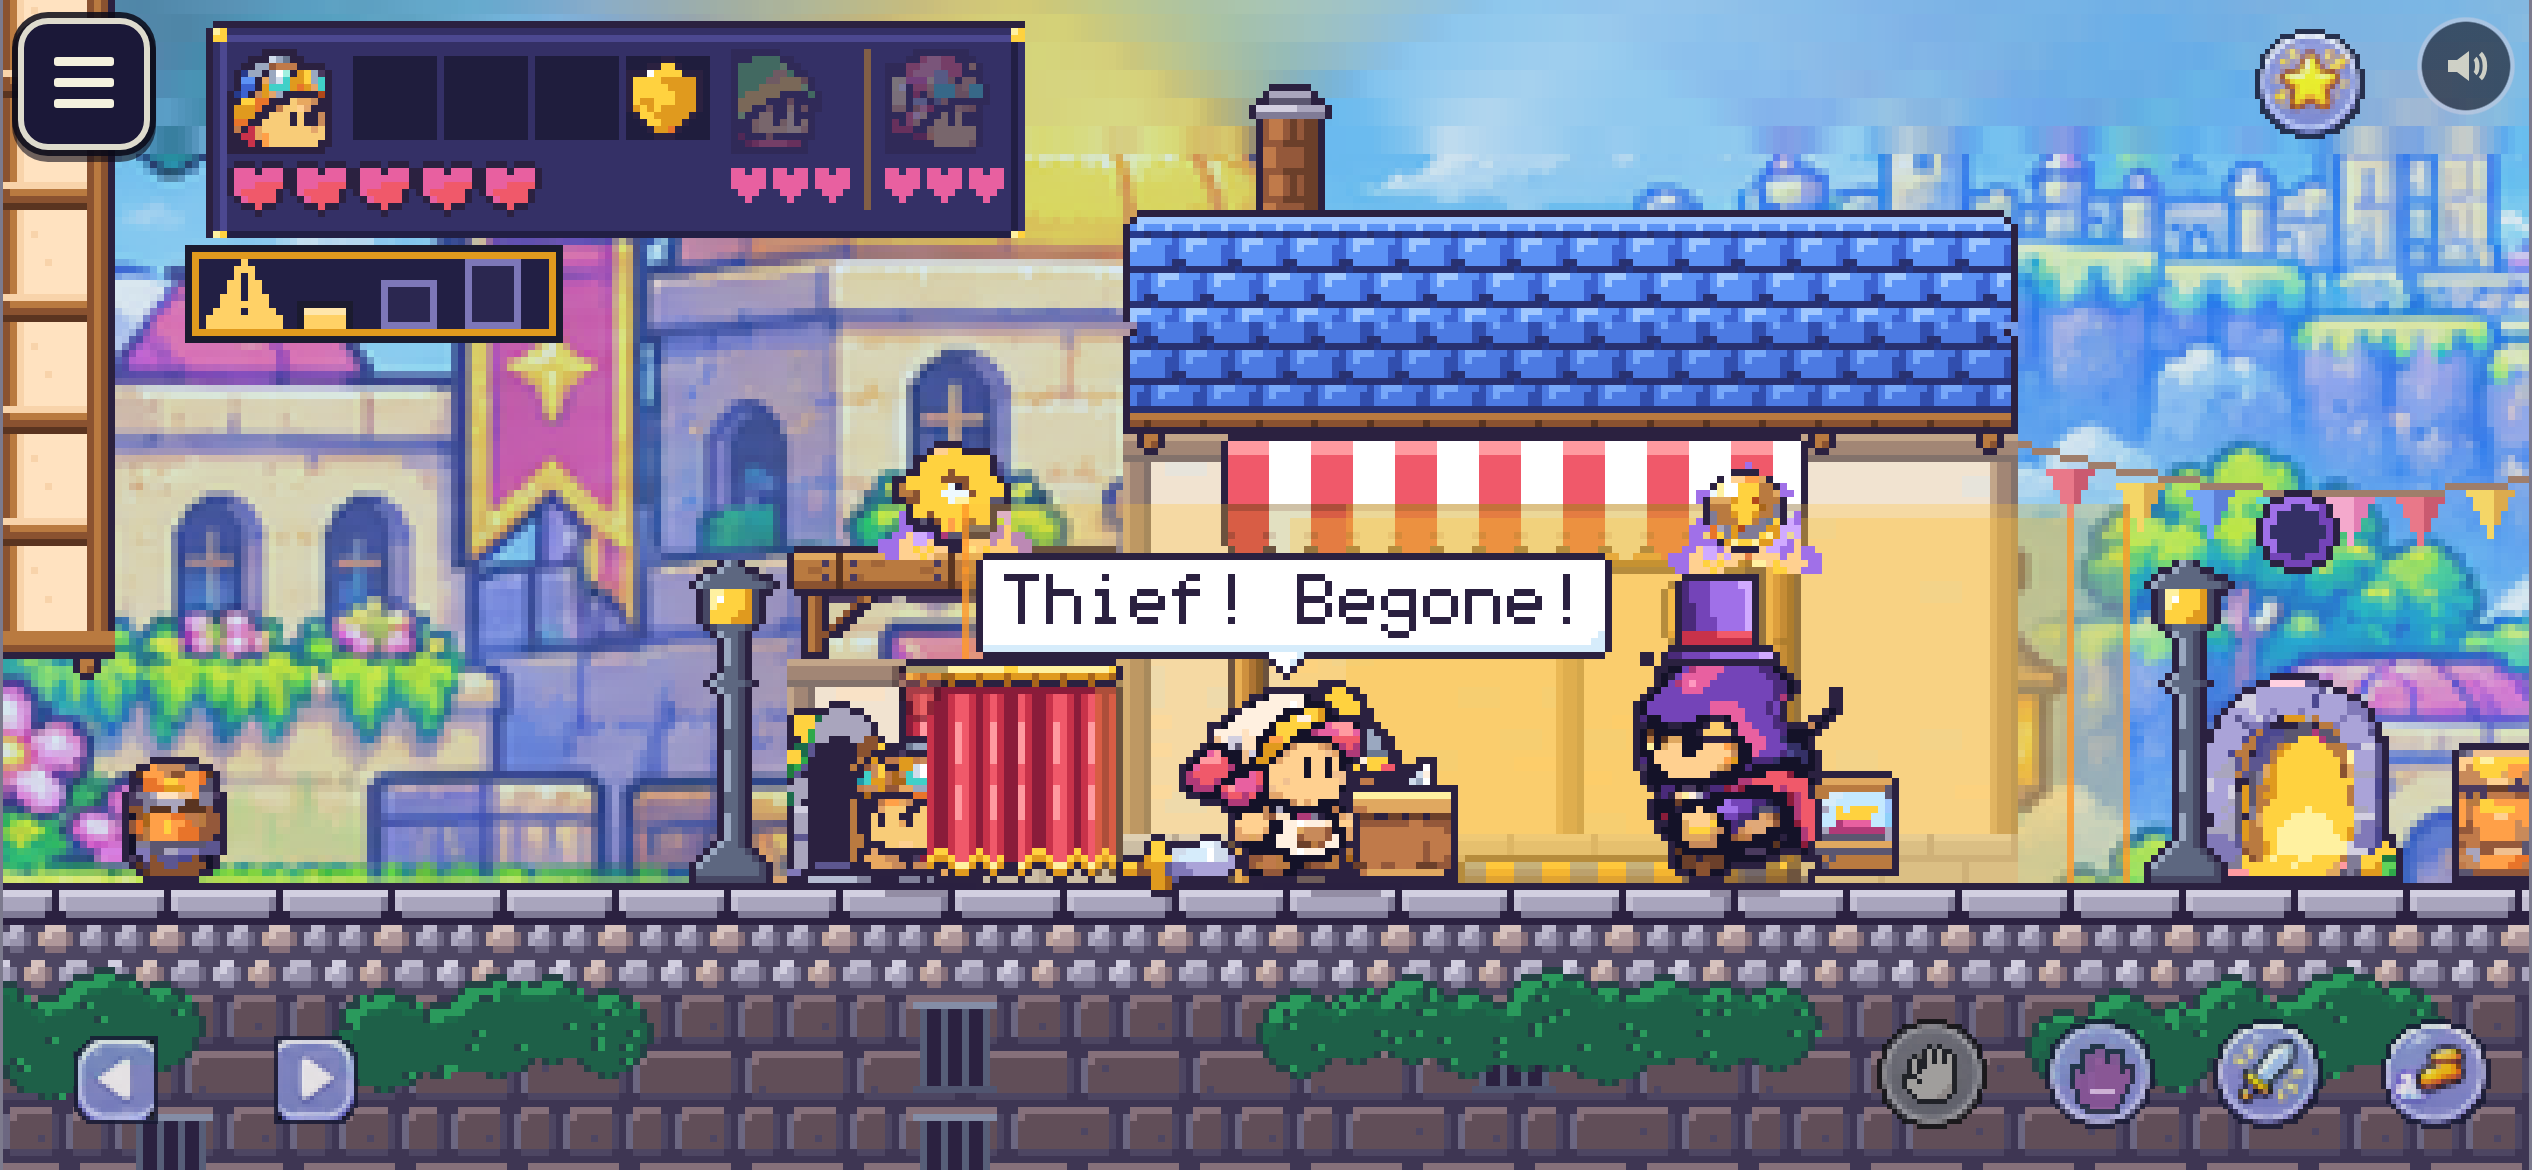
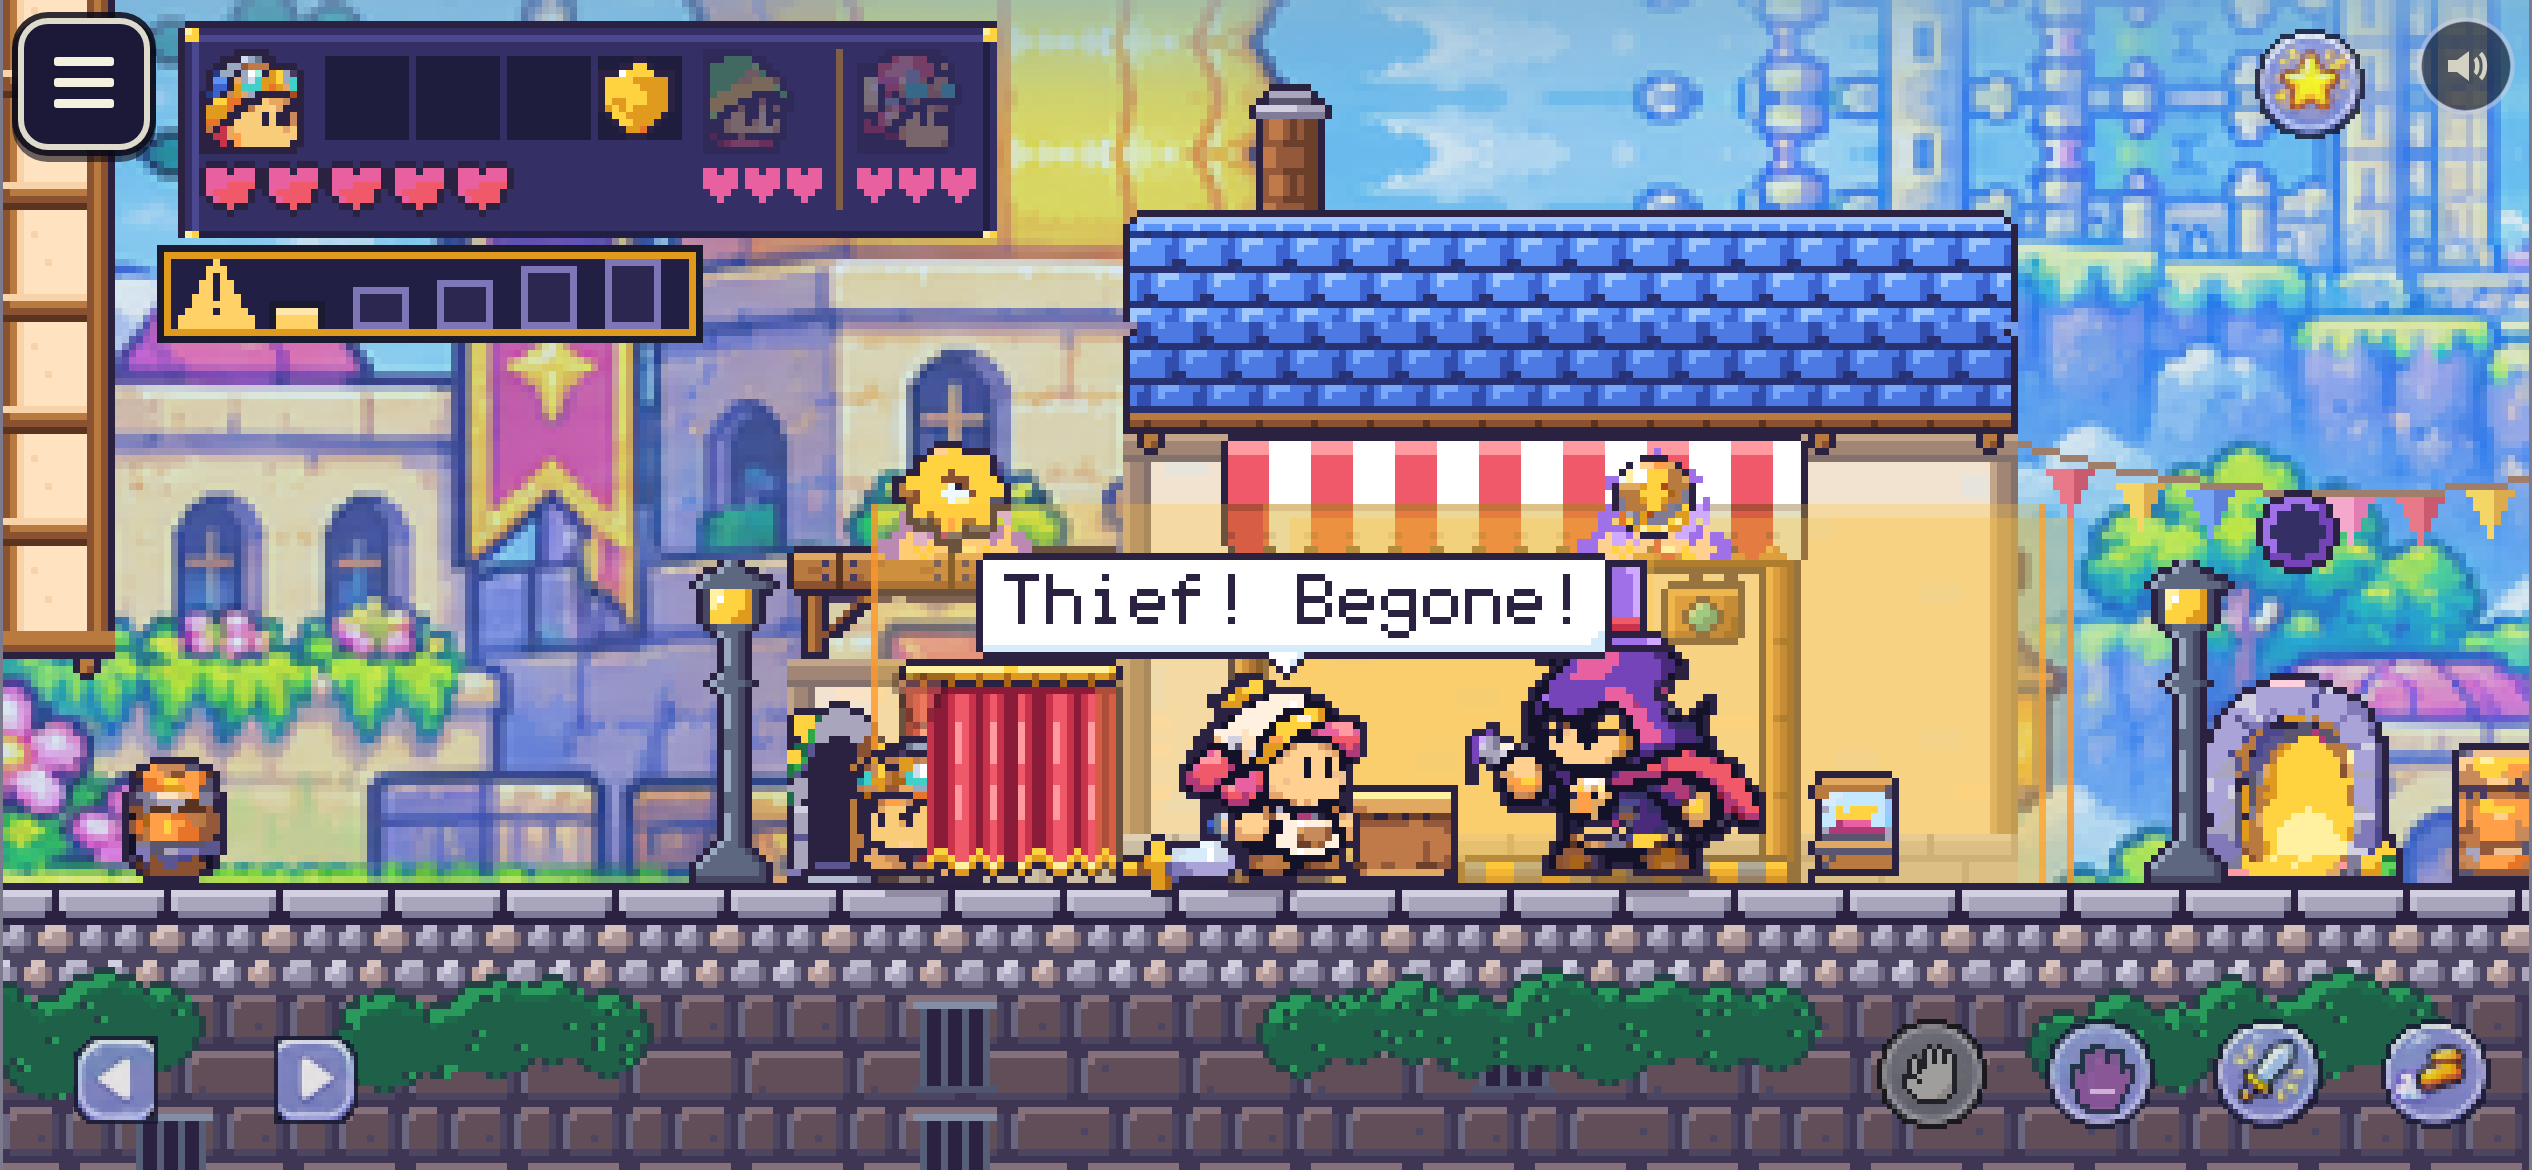
The e2e's reds, fourth builder, push 2: clash-street walks off once the villain is drawn clipped
Why: clash-street went red in 2 of the orchestrator's last 3 full runs (the guard
knocked with the hero 61 px off, wants 64), and a blind look found no fight in its
shots. Measured with the fact alone: the brawl's knocks come at fixed times after the
guard's blow clips the villain, and the hero walked off at a time set by 300 ms
polling, so those knocks landed 61-77 px from him; under load 3 of 4 red. Walking off
sooner leaves no brawl at all (0 knocks, 4 of 4): the hero must be standing in the
villain when the guard swings. The check's, not the game's.

What (scripts/e2e/clash.ts only): stand in the villain until the page draws him
knocked (the guard's clip, up to 3 s), then walk off; knocks count only while drawn
inside the view (what a player sees); each shot waits until guard and villain are
both drawn in frame and the fact says whether they were. Claim and limits unchanged.
Shots re-taken at 844x390 and 390x664, both in frame (my look, not blind).

Ran: the fact alone 4 of 4 green, under load (3 CPU hogs) 4 of 4 green (the guard's
knock 107-111 px off, the villain's 109-114); control (hostility answers emptied,
scratch build) red, 0 guard knocks; npm run build, npm run check (exit 0); full
npm run e2e 184 of 184. Not verified: 8 full runs. Weakest: knocks in all sometimes
exactly the floor of 4. Measure row moved: none. Undo: revert the commit.

Claude-Session: https://claude.ai/code/session_017WiGzJPGBR6ALNnE8BaE3G

diff --git a/scripts/e2e/clash.ts b/scripts/e2e/clash.ts
@@ -3,8 +3,8 @@
 // check:live until it has been green ten runs). A phone-sized page, by touch
 // alone, walks into the castle street, takes goods from the shop until the
 // shopkeeper's call brings the street guard, stands in the villain (who robs
-// at columns 17-21) until the guard is on it, then walks west and stands
-// clear: the page draws the guard and the villain each knocked (a jump of
+// at columns 17-21) until the guard is on it and the page draws the villain
+// knocked by his blow, then walks west and stands clear: the page draws the guard and the villain each knocked (a jump of
 // their drawn x) at least twice within a few seconds of each other while its
 // own character stands at least four tiles from them, having walked away
 // (docs/mechanisms/npc-response.md, "A person answers a blow ahead of a hero").
@@ -41,6 +41,8 @@ const CLEAR_X = 128;
 const AWAY = 64;
 /** A knock: a body's drawn x moves this much within 300 ms (people walk 12 px in 300 ms; a guard's blow carries a person ~100 px). */
 const JUMP = 24;
+/** A knock counts only while the body is drawn inside the view, this far in from its left edge (the drawn x is the left edge). */
+const IN_VIEW_PAD = 4;
 
 /** Holds the stick one way until the page draws its character in `goal` (copied from scripts/e2e/outpost.ts, Step 12's). */
 async function walkInto(ph: Phone, dir: number, goal: string, ms = 20000): Promise<boolean> {
@@ -71,6 +73,27 @@ const leftOver = (ph: Phone, thing: string): Promise<number> =>
 /** Where the page draws a body (its left edge), or null. */
 const xOf = (ph: Phone, id: string): Promise<number | null> =>
   ph.page.evaluate((i: string) => (window as any).irreverents.drawn.entities.find((e: any) => e.id === i)?.x ?? null, id);
+
+/** Waits until the page draws both the guard and the villain inside its view; true if it did within `ms`. */
+async function bothInView(ph: Phone, ms: number): Promise<boolean> {
+  try {
+    await ph.page.waitForFunction(
+      ([ids, pad]: [string[], number]) => {
+        const irr = (window as any).irreverents;
+        const d = irr.drawn;
+        return ids.every((i) => {
+          const x = d.entities.find((e: any) => e.id === i)?.x;
+          return typeof x === 'number' && x >= d.camera.x + pad && x <= d.camera.x + irr.view.w - pad;
+        });
+      },
+      [[GUARD, VILLAIN], IN_VIEW_PAD] as [string[], number],
+      { polling: 'raf', timeout: ms },
+    );
+    return true;
+  } catch {
+    return false;
+  }
+}
 
 export async function clashFacts(kit: Kit & { shots: string }): Promise<void> {
   const { fact } = kit;
@@ -111,6 +134,33 @@ export async function clashFacts(kit: Kit & { shots: string }): Promise<void> {
       met = gx !== null && Math.abs(gx - mx) <= 24;
       if (!met) await sleep(300);
     }
+    // Then keep standing in him until the page draws the villain knocked (the guard's blow at the hero clipping
+    // him, which starts the brawl), up to 3 s. INTENT (e2e-intermittent-reds brief, order 3): walking off sooner
+    // than that blow leaves no brawl at all (measured: 0 knocks drawn in 4 of 4 runs that walked off the frame the
+    // guard was drawn on the hero); walking off at a fixed time before it left the brawl's knocks at 61-77 px from
+    // the hero, across the fact's four tiles.
+    let clipped = false;
+    if (met) {
+      try {
+        await ph.page.waitForFunction(
+          ([id, jump]: [string, number]) => {
+            const w = window as any;
+            const d = w.irreverents.drawn;
+            const x = d.entities.find((e: any) => e.id === id)?.x;
+            const now = performance.now();
+            const h: { t: number; x: number }[] = (w.__clashVillain ??= []);
+            if (typeof x === 'number') h.push({ t: now, x });
+            while (h.length && h[0]!.t < now - 300) h.shift();
+            return h.length > 1 && Math.abs(h[h.length - 1]!.x - h[0]!.x) >= jump;
+          },
+          [VILLAIN, JUMP] as [string, number],
+          { polling: 'raf', timeout: 3000 },
+        );
+        clipped = true;
+      } catch {
+        // the fact says so
+      }
+    }
     const metAt = Date.now() - t0;
 
     // Now record, every frame for 20 s, where the page draws the hero, the guard and the villain, while the
@@ -119,12 +169,13 @@ export async function clashFacts(kit: Kit & { shots: string }): Promise<void> {
       ([ids, dur]: [string[], number]) =>
         new Promise<any>((resolve) => {
           const start = performance.now();
-          const rows: { t: number; me: number; room: string; x: Record<string, number | null> }[] = [];
+          const rows: { t: number; me: number; room: string; x: Record<string, number | null>; cx: number; vw: number }[] = [];
           const tick = (): void => {
-            const d = (window as any).irreverents.drawn;
+            const irr = (window as any).irreverents;
+            const d = irr.drawn;
             const x: Record<string, number | null> = {};
             for (const id of ids) x[id] = d.entities.find((e: any) => e.id === id)?.x ?? null;
-            rows.push({ t: performance.now() - start, me: d.me.x, room: d.room, x });
+            rows.push({ t: performance.now() - start, me: d.me.x, room: d.room, x, cx: d.camera?.x ?? 0, vw: irr.view?.w ?? 0 });
             if (performance.now() - start > dur) return resolve(rows);
             requestAnimationFrame(tick);
           };
@@ -132,6 +183,7 @@ export async function clashFacts(kit: Kit & { shots: string }): Promise<void> {
         }),
       [[GUARD, VILLAIN], 20000],
     );
+    const shotsInFrame: string[] = [];
     if (met) {
       const p = await pointOn(ph, '[data-stick]', 0.25);
       if (p) {
@@ -144,17 +196,19 @@ export async function clashFacts(kit: Kit & { shots: string }): Promise<void> {
         await ph.cdp.send('Input.dispatchTouchEvent', { type: 'touchEnd', touchPoints: [] });
       }
       // The shots, while the brawl goes on and the hero has walked off (the e2e phone is 750x340).
+      // Each shot waits (up to 4 s) until the page draws both the guard and the villain inside its view, and the
+      // fact says whether each shot got them (shotsInFrame).
       fs.mkdirSync(kit.shots, { recursive: true });
       await sleep(500);
-      await ph.page.setViewportSize({ width: 844, height: 390 });
-      await sleep(300);
-      await ph.page.screenshot({ path: path.join(kit.shots, 'clash-street-844x390.png') });
-      await ph.page.setViewportSize({ width: 390, height: 664 });
-      await sleep(300);
-      await ph.page.screenshot({ path: path.join(kit.shots, 'clash-street-390x664.png') });
+      for (const [w, h] of [[844, 390], [390, 664]] as const) {
+        await ph.page.setViewportSize({ width: w, height: h });
+        await sleep(300);
+        shotsInFrame.push(`${w}x${h} ${await bothInView(ph, 4000)}`);
+        await ph.page.screenshot({ path: path.join(kit.shots, `clash-street-${w}x${h}.png`) });
+      }
       await ph.page.setViewportSize({ width: 750, height: 340 });
     }
-    const rows = (await recording) as { t: number; me: number; room: string; x: Record<string, number | null> }[];
+    const rows = (await recording) as { t: number; me: number; room: string; x: Record<string, number | null>; cx: number; vw: number }[];
 
     // A knock: the body's drawn x moved JUMP px or more within 300 ms, in the street; one per 600 ms.
     // It counts only while the hero is drawn AWAY px or more from that body.
@@ -165,6 +219,7 @@ export async function clashFacts(kit: Kit & { shots: string }): Promise<void> {
         const r = rows[i]!;
         const x = r.x[id];
         if (x === null || x === undefined || r.room !== 'castle-street' || r.t - last < 600) continue;
+        if (r.vw > 0 && (x < r.cx + IN_VIEW_PAD || x > r.cx + r.vw - IN_VIEW_PAD)) continue; // off the screen: no player saw it
         for (let j = i - 1; j >= 0 && rows[j]!.t >= r.t - 300; j--) {
           const y = rows[j]!.x[id];
           if (y !== null && y !== undefined && Math.abs(x - y) >= JUMP) {
@@ -189,7 +244,7 @@ export async function clashFacts(kit: Kit & { shots: string }): Promise<void> {
     fact(
       'clash-street',
       inStreet && met && gAway.length >= 1 && vAway.length >= 2 && g.length + v.length >= 4 && near && walkedOff,
-      `by touch, a phone's ${kind} walked into the castle street (${inStreet}), took ${taken} good(s) (the guard drawn coming: ${guardComing}), stood in the villain until the guard was on it (${met}, after ${(metAt / 1000).toFixed(1)} s), then walked west from x ${Math.round(first?.me ?? NaN)} to ${Math.round(lastRow?.me ?? NaN)} (walked off: ${walkedOff}); ` +
+      `by touch, a phone's ${kind} walked into the castle street (${inStreet}), took ${taken} good(s) (the guard drawn coming: ${guardComing}), stood in the villain until the guard was on it (${met}, after ${(metAt / 1000).toFixed(1)} s) and the villain was drawn knocked by him (${clipped}), then walked west from x ${Math.round(first?.me ?? NaN)} to ${Math.round(lastRow?.me ?? NaN)} (walked off: ${walkedOff}); both drawn in the shots' frames: ${shotsInFrame.join(', ') || 'no shots'}; knocks count only drawn on screen; ` +
         `in 20 s the page drew the guard knocked ${g.length} time(s) (${gAway.length} with the hero ${AWAY} px or more away; at ${g.map((k) => `${(k.at / 1000).toFixed(1)} s, ${k.away} px off`).join('; ') || 'never'}) and the villain ${v.length} (${vAway.length} away; at ${v.map((k) => `${(k.at / 1000).toFixed(1)} s, ${k.away} px off`).join('; ') || 'never'}); expected the guard 1 or more and the villain 2 or more with the hero away, 4 or more in all, a guard's and a villain's within 4 s of each other (${near})`,
     );
   } finally {

diff --git a/docs/plan/step-5.md b/docs/plan/step-5.md
@@ -1051,8 +1051,23 @@ snapshots off the socket each second (hero, lookout, fighter 1, the post's `c.si
     sees him and calls (1511-1690), and he walks two tiles east during the call (1600-1630,
     x 540, so 41 is within `sendNoneNearer` and skipped): row at x 97 and x 801, the fence
     broken by `w1:1` at 1764, his hit after. Control (no `breakThrough`): expect[4], [5] fail.
-- **Not verified:** the e2e (`row-both-sides` and the camp facts) on this push; the ruling
-  changes the camp's fight the phone sees, so its next full runs say.
+- Push 1 live at 7d7f15f; one full e2e on its tree: 184 of 184.
+- **`clash-street` (order 3): the check's.** Measured with the fact alone (a scratch runner
+  calling `clashFacts` against a local server): the brawl's knocks come at fixed times after
+  the guard's blow clips the villain (the guard's ~2 s later, the villain's ~4 s and ~6.5 s),
+  and the guard, answering the call, keeps coming at the hero, so walking off at a time set
+  by the old 300 ms polling put those knocks 61-77 px from the hero, across the 64 px line.
+  Under load (three CPU hogs beside it) 3 of 4 red; alone 3 of 3 green. Walking off on the
+  frame the guard reached the hero left **no brawl at all** (0 knocks, 4 of 4): the hero must
+  still be standing in the villain when the guard swings. Fix: stand in him until the page
+  draws the villain knocked (the clip; up to 3 s), then walk off. Then: alone 4 of 4, under
+  load 4 of 4 green; the guard's knock 107-111 px off, the villain's 109-114 px. Also: knocks
+  count only drawn inside the view (what a player sees), each shot waits until both are drawn
+  in frame and the fact says whether they were (both true in all 8). Control (`answers`
+  emptied, scratch build): red, 0 guard knocks. Shots re-taken: guard and villain in frame at
+  both sizes (my look, not a blind one: sideways the villain mid-swing at the guard, upright
+  stun marks between them; the hero half behind the curtain stall, four tiles off).
+  Weakest: knocks in all is sometimes exactly 4, the floor (1 guard + 3 villain).
 
 ## A page misses what happened (brief `handoff-prompts/page-misses-what-happened.md`)
 

diff --git a/handoff-prompts/e2e-intermittent-reds.md b/handoff-prompts/e2e-intermittent-reds.md
@@ -5,7 +5,7 @@
 **Landed so far (fourth builder `session_017WiGzJPGBR6ALNnE8BaE3G`):** order (1), the lookout
 ruling, pushed whole (the held patch applied, then removed; the four owed scenarios re-proved
 with new inputs, each claim kept and its control watched to fail; how each in
-`docs/plan/step-5.md`, the fourth builder's section). Next: (3) `clash-street`.
+`docs/plan/step-5.md`, the fourth builder's section), live at 7d7f15f. Order (3) `clash-street`: the check's (it walked off at a polled time; now walks off once the villain is drawn clipped, counts only on-screen knocks, shots re-taken with both in frame), pushed next. Next: (4) `beaten-gone`.
 **Landed so far (third builder `session_017WiGzJ3ASmAcF3W8txtRbK`, stopped at its budget):**
 order (2) at 22c832b, live 09:37 UTC: Grab takes a person (toughness > 0) before a prop,
 nearest within each (`grab-person-before-prop`, control watched to fail); the e2e
